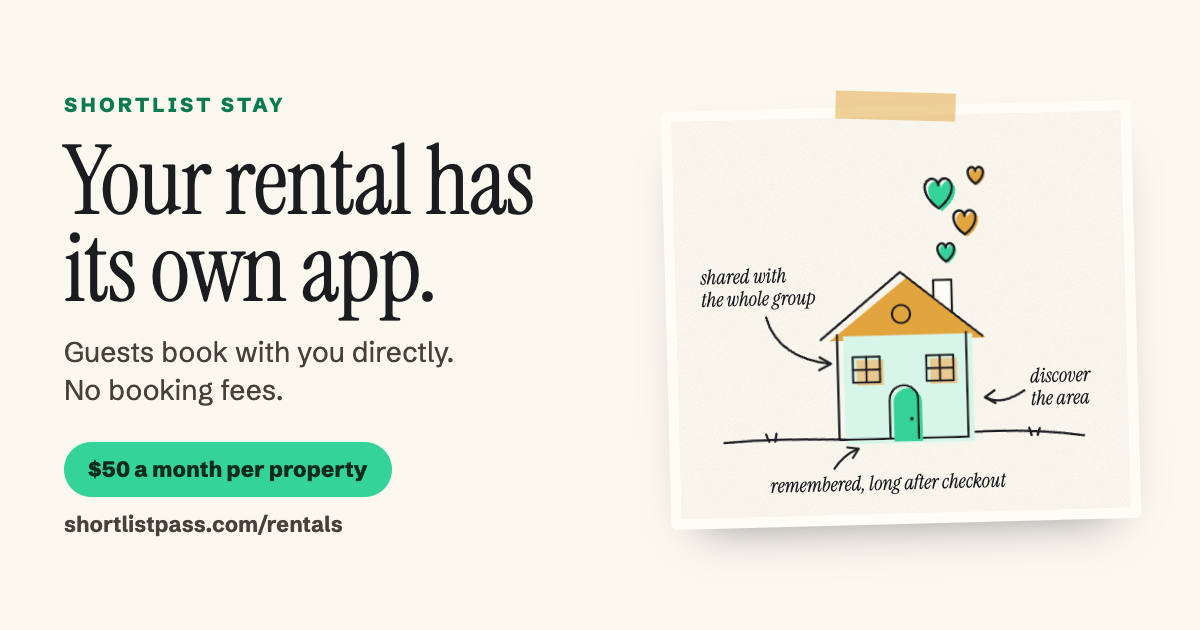
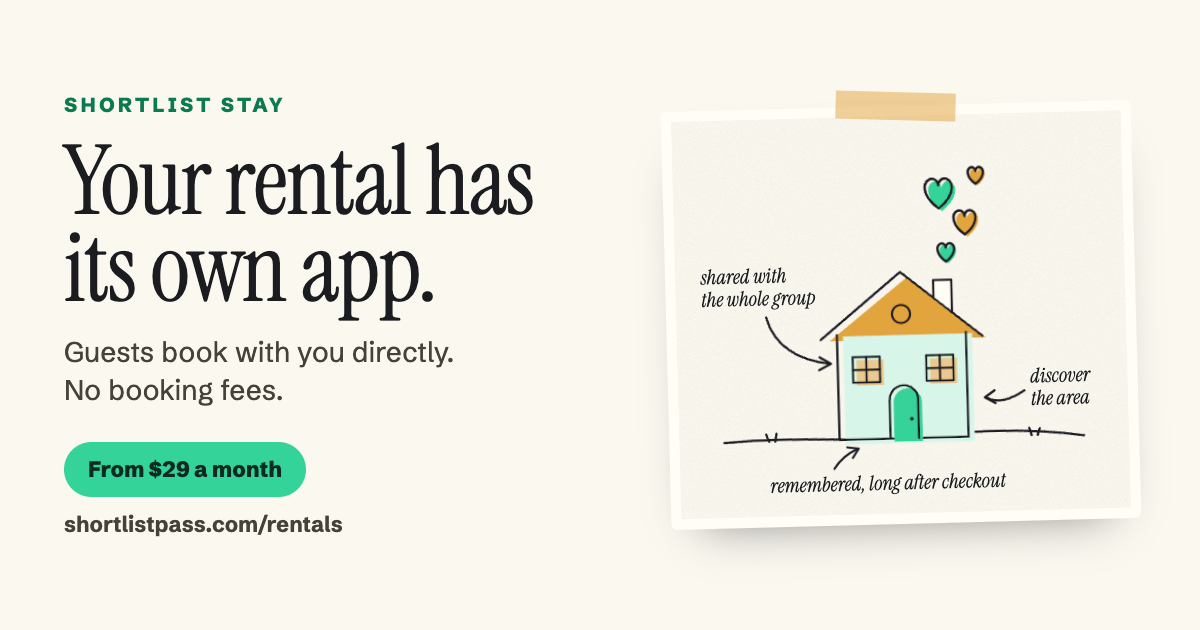
/rentals: animated hero phone (4 screens), 'How you keep them' section, new pricing ($29 / $15 / $9), new hero copy, metadata and share card

Changed region(s): [[0.0617, 0.6937, 0.3392, 0.8143]]

diff --git a/src/components/rentals/RentalsV3.tsx b/src/components/rentals/RentalsV3.tsx
@@ -2,6 +2,8 @@ import Image from "next/image";
 import { SIGNUP_HREF, DEMO_HREF } from "./tokens";
 import { FAQ } from "./faq";
 
+const SERIF_V = "var(--font-instrument), Georgia, serif";
+
 /** The v3 design for shortlistpass.com/rentals. The markup is the design file's, word for word, with its inline SVG drawings and the two filters (rough, grain) defined once at the top. The CSS below is the design's two animations plus the phone-width rules from the phone design file. */
 const CSS = `.rs,.rs *{-webkit-font-smoothing:auto}
 .rs,.rs *,.rs *::before,.rs *::after{box-sizing:content-box}
@@ -14,6 +16,11 @@ const CSS = `.rs,.rs *{-webkit-font-smoothing:auto}
 @keyframes cyc{0%{opacity:0;transform:translateY(10px)}4%,22%{opacity:1;transform:none}26%,100%{opacity:0;transform:none}}
 .rs .ht{transform-box:fill-box;transform-origin:center;animation:rise 4.4s ease-in-out infinite}
 @keyframes rise{0%{opacity:0;transform:translateY(16px)}25%,75%{opacity:1}100%{opacity:0;transform:translateY(-12px)}}
+.rs .hsw{position:absolute;inset:0}
+.rs .hs{position:absolute;inset:0;display:flex;flex-direction:column;opacity:0;animation:hcyc 14s infinite}
+.rs .hs2{animation-delay:3.5s}.rs .hs3{animation-delay:7s}.rs .hs4{animation-delay:10.5s}
+@keyframes hcyc{0%{opacity:0;transform:translateY(8px)}4%,22%{opacity:1;transform:none}26%,100%{opacity:0;transform:none}}
+@media (prefers-reduced-motion: reduce){.rs .hs{animation:none}.rs .hs1{opacity:1}}
 @media (prefers-reduced-motion: reduce){.rs .ht{animation:none}.rs .kn,.rs .sl{animation:none}.rs .sl.s1x{opacity:1}.rs .k1{background:#d7f5e8;color:#1a1c20}}
 @media (max-width:700px){
 .rs h1,.rs h2,.rs h3,.rs p,.rs .ey{text-wrap:wrap!important}
@@ -33,7 +40,7 @@ const CSS = `.rs,.rs *{-webkit-font-smoothing:auto}
 .rs .hc{gap:16px!important}
 .rs h1{font-size:52px!important;line-height:.95!important}
 .rs .s1 p{font-size:17px!important}
-.rs .s1 .hc>p:nth-of-type(2){font-size:26px!important}
+.rs .s1 .hc>p:nth-of-type(1){font-size:26px!important}
 .rs .hb{flex-direction:column!important;align-items:stretch!important;gap:10px!important}
 .rs .hb a{min-height:52px;justify-content:center;padding:0!important;font-size:16px!important}
 .rs .hn{text-align:center}
@@ -41,14 +48,15 @@ const CSS = `.rs,.rs *{-webkit-font-smoothing:auto}
 .rs .hph{left:0!important;right:0!important;top:0!important;bottom:auto!important;height:300px;border-radius:24px!important}
 .rs .hp{right:16px!important;bottom:0!important;width:190px!important;height:360px!important;border-radius:32px!important;padding:8px!important}
 .rs .hps{border-radius:25px!important}
-.rs .hpi{height:80px!important}
-.rs .hpt{padding:10px 10px 0!important;gap:3px!important}
-.rs .hpt span:first-child{font-size:8px!important}.rs .hpt span:last-child{font-size:19px!important}
-.rs .hpq,.rs .hpw{display:none!important}
-.rs .hpd{margin:10px 10px 0!important;padding:10px!important;border-radius:14px!important;gap:4px!important}
-.rs .hpd span:nth-child(1),.rs .hpd span:nth-child(2){font-size:8px!important}.rs .hpd span:nth-child(3){font-size:22px!important}
-.rs .hpg{margin:10px 10px 0!important;gap:6px!important}
-.rs .hpgt{height:44px!important;border-radius:10px!important}
+.rs .hsw{right:auto;bottom:auto;width:250px;height:494px;transform:scale(.696);transform-origin:0 0}
+.rs .hk{padding:8px 16px 40px!important;gap:20px!important}
+.rs .hk h2{font-size:42px!important;line-height:.98!important}
+.rs .hkr{flex-direction:column!important;gap:28px!important}
+.rs .hkc{flex:none!important}
+.rs .hkn{font-size:72px!important}
+.rs .hkc p{font-size:16px!important}
+.rs .hkc h3{font-size:22px!important;line-height:1.15!important}
+.rs .hk>p{font-size:15px!important}
 .rs .s2{padding:0 16px 24px!important;gap:10px!important}
 .rs .s2 h2{font-size:42px!important;line-height:.98!important}
 .rs .s3,.rs .s4,.rs .s5{padding:24px 16px 40px!important;gap:20px!important}
@@ -162,42 +170,127 @@ export default function RentalsV3() {
     <div className="hc" style={{ "flex": "1 1 480px", "minWidth": "0", "display": "flex", "flexDirection": "column", "gap": "20px" }}>
       <div className="ey" style={{ "fontSize": "13px", "fontWeight": "700", "letterSpacing": "0.14em", "textTransform": "uppercase", "color": "#0b7a50" }}>For vacation rental hosts</div>
       <h1 style={{ "margin": "0", "fontFamily": "var(--font-instrument), Georgia, serif", "fontWeight": "400", "fontSize": "86px", "lineHeight": "0.92", "letterSpacing": "-0.015em", "textWrap": "balance" }}>Your rental has its own app.</h1>
-      <p style={{ "margin": "0", "maxWidth": "540px", "fontSize": "19px", "lineHeight": "1.55", "color": "#45423c", "textWrap": "pretty" }}>Shorty answers your guests, shows them the best of the area, and keeps in touch long after checkout. When they come back, they book with you directly. We never take a booking fee.</p>
-      <p style={{ "margin": "0", "fontFamily": "var(--font-instrument), Georgia, serif", "fontSize": "30px", "lineHeight": "1.1" }}>Your rental. Your guests. You keep them.</p>
+      <p style={{ "margin": "0", "fontFamily": "var(--font-instrument), Georgia, serif", "fontSize": "30px", "lineHeight": "1.1" }}>Airbnb found your guests. Your app keeps them.</p>
+      <p style={{ "margin": "0", "maxWidth": "540px", "fontSize": "19px", "lineHeight": "1.55", "color": "#45423c", "textWrap": "pretty" }}>Shorty answers your guests, shares your local picks and stays in touch after checkout, so next time they book you direct. No booking fee.</p>
       <div className="hb" style={{ "display": "flex", "gap": "12px", "flexWrap": "wrap", "alignItems": "center" }}>
         <a href={SIGNUP_HREF} style={{ "minHeight": "52px", "padding": "0 28px", "borderRadius": "999px", "background": "#1a1c20", "color": "#f6f1e4", "textDecoration": "none", "display": "inline-flex", "alignItems": "center", "fontSize": "16px", "fontWeight": "700" }}>Get started</a>
         <a href={DEMO_HREF} style={{ "minHeight": "52px", "padding": "0 28px", "borderRadius": "999px", "background": "#34d399", "color": "#0d2b20", "textDecoration": "none", "display": "inline-flex", "alignItems": "center", "fontSize": "16px", "fontWeight": "700" }}>Try the demo house</a>
       </div>
-      <div className="hn" style={{ "fontSize": "14px", "color": "#6f6b60" }}>$50 a month per property. No download for guests.</div>
+      <div className="hn" style={{ "fontSize": "14px", "color": "#6f6b60" }}>From $29 a month. No download for guests. Cancel anytime.</div>
     </div>
     <div className="hv" style={{ "flex": "1 1 520px", "minWidth": "0", "position": "relative", "minHeight": "560px" }}>
       <div className="hph" style={{ "overflow": "hidden", "position": "absolute", "inset": "0 80px 0 0", "borderRadius": "28px", "background": "#d9cfb8", "display": "flex", "alignItems": "flex-end", "padding": "20px", "boxSizing": "border-box" }}>
         <Image src="/rentals/rentals-hero-porch.jpg" alt="Beach house porch at golden hour" fill sizes="(max-width: 700px) 100vw, 600px" priority style={{ objectFit: "cover" }} />
       </div>
       <div className="hp" style={{ "position": "absolute", "right": "0", "bottom": "-24px", "width": "270px", "height": "540px", "borderRadius": "40px", "background": "#14161a", "padding": "10px", "boxSizing": "border-box", "boxShadow": "0 24px 48px -28px rgba(26,28,32,0.55)" }}>
-        <div className="hps" style={{ "width": "100%", "height": "100%", "borderRadius": "32px", "background": "#fbf8f0", "overflow": "hidden", "display": "flex", "flexDirection": "column" }}>
-          <div className="hpi" style={{ "overflow": "hidden", "position": "relative", "height": "120px", "background": "#e9c98f" }}>
-        <Image src="/rentals/rentals-phone-house.jpg" alt="Raised beach house at sunrise" fill sizes="270px" style={{ objectFit: "cover" }} /></div>
-          <div className="hpt" style={{ "padding": "14px 14px 0", "display": "flex", "flexDirection": "column", "gap": "4px" }}>
-            <span style={{ "fontSize": "9px", "fontWeight": "700", "letterSpacing": "0.14em", "color": "#0b7a50" }}>WELCOME IN</span>
-            <span style={{ "fontFamily": "var(--font-instrument), Georgia, serif", "fontSize": "24px", "lineHeight": "1" }}>The Beach House</span>
+        <div className="hps" style={{ width: "100%", height: "100%", borderRadius: "32px", background: "#fbf8f0", overflow: "hidden", position: "relative" }}>
+          <div className="hsw">
+          <div className="hs hs1">
+            <div style={{ position: "relative", height: "120px", background: "#e9c98f" }}><Image src="/rentals/rentals-phone-house.jpg" alt="Raised beach house at sunrise" fill sizes="250px" style={{ objectFit: "cover" }} /></div>
+            <div style={{ padding: "14px 14px 0", display: "flex", flexDirection: "column", gap: "4px" }}>
+              <span style={{ fontSize: "9px", fontWeight: 700, letterSpacing: "0.14em", color: "#0b7a50" }}>WELCOME IN</span>
+              <span style={{ fontFamily: SERIF_V, fontSize: "24px", lineHeight: 1 }}>The Beach House</span>
+            </div>
+            <div style={{ margin: "12px 14px 0", padding: "8px 12px", borderRadius: 999, border: "1px solid #1a1c20", fontSize: "11px", color: "#6f6b60" }}>Ask anything about your stay</div>
+            <div style={{ margin: "12px 14px 0", padding: "12px", borderRadius: "16px", background: "#14161a", color: "#f6f1e4", display: "flex", flexDirection: "column", gap: "6px" }}>
+              <span style={{ fontSize: "9px", fontWeight: 700, letterSpacing: "0.14em", color: "#34d399" }}>YOUR STAY</span>
+              <span style={{ fontSize: "9px", color: "#c9c3b3" }}>FRONT DOOR</span>
+              <span style={{ fontFamily: SERIF_V, fontSize: "26px", letterSpacing: "0.08em" }}>4821</span>
+              <span style={{ fontSize: "10px", color: "#c9c3b3" }}>Wi-Fi: BeachHouse_Guest</span>
+            </div>
           </div>
-          <div className="hpq" style={{ "margin": "12px 14px 0", "padding": "8px 12px", "borderRadius": "999px", "border": "1px solid #1a1c20", "fontSize": "11px", "color": "#6f6b60" }}>Ask anything about your stay</div>
-          <div className="hpd" style={{ "margin": "12px 14px 0", "padding": "12px", "borderRadius": "16px", "background": "#14161a", "color": "#f6f1e4", "display": "flex", "flexDirection": "column", "gap": "6px" }}>
-            <span style={{ "fontSize": "9px", "fontWeight": "700", "letterSpacing": "0.14em", "color": "#34d399" }}>YOUR STAY</span>
-            <span style={{ "fontSize": "9px", "color": "#c9c3b3" }}>FRONT DOOR</span>
-            <span style={{ "fontFamily": "var(--font-instrument), Georgia, serif", "fontSize": "26px", "letterSpacing": "0.08em" }}>4821</span>
-            <span className="hpw" style={{ "fontSize": "10px", "color": "#c9c3b3" }}>Wi-Fi: BeachHouse_Guest</span>
+          <div className="hs hs2" style={{ padding: "18px 14px", boxSizing: "border-box", gap: "10px" }}>
+            <div style={{ display: "flex", flexDirection: "column", gap: "3px" }}>
+              <span style={{ fontSize: "9px", fontWeight: 700, letterSpacing: "0.14em", color: "#0b7a50" }}>AROUND HERE</span>
+              <span style={{ fontFamily: SERIF_V, fontSize: "26px", lineHeight: 1 }}>Top restaurants</span>
+              <span style={{ fontSize: "10px", color: "#6f6b60" }}>Jenna&apos;s picks</span>
+            </div>
+            <div style={{ display: "flex", gap: "5px" }}><span style={{ padding: "4px 8px", borderRadius: 999, background: "#1a1c20", color: "#f6f1e4", fontSize: "9px", fontWeight: 700 }}>All</span><span style={{ padding: "4px 8px", borderRadius: 999, border: "1px solid #e6dfcc", fontSize: "9px", fontWeight: 700 }}>Seafood</span><span style={{ padding: "4px 8px", borderRadius: 999, border: "1px solid #e6dfcc", fontSize: "9px", fontWeight: 700 }}>Breakfast</span></div>
+            <div style={{ borderRadius: "14px", background: "#ffffff", border: "1px solid #e6dfcc", overflow: "hidden" }}>
+              <div style={{ position: "relative", height: "64px", background: "#e9c98f" }}><Image src="/rentals/rentals-pick-grill.jpg" alt="Shrimp basket on a table" fill sizes="250px" style={{ objectFit: "cover" }} /></div>
+              <div style={{ padding: "8px 10px 10px", display: "flex", flexDirection: "column", gap: "2px" }}>
+                <span style={{ fontSize: "12px", fontWeight: 700 }}>Dockside Grill</span>
+                <span style={{ fontSize: "10px", lineHeight: 1.35, color: "#45423c" }}>Shrimp basket on the deck at sunset.</span>
+              </div>
+            </div>
+            <div style={{ borderRadius: "14px", background: "#ffffff", border: "1px solid #e6dfcc", overflow: "hidden" }}>
+              <div style={{ position: "relative", height: "64px", background: "#f0d9c4" }}></div>
+              <div style={{ padding: "8px 10px 10px", display: "flex", flexDirection: "column", gap: "2px" }}>
+                <span style={{ fontSize: "12px", fontWeight: 700 }}>Low Tide Tacos</span>
+                <span style={{ fontSize: "10px", lineHeight: 1.35, color: "#45423c" }}>Our favorite. Check where the truck is tonight.</span>
+              </div>
+            </div>
           </div>
-          <div className="hpg" style={{ "margin": "12px 14px 0", "display": "grid", "gridTemplateColumns": "repeat(2, minmax(0, 1fr))", "gap": "8px" }}>
-            <div className="hpgt" style={{ "overflow": "hidden", "position": "relative", "height": "56px", "borderRadius": "12px", "background": "#e9c98f" }}>
-        <Image src="/rentals/rentals-phone-tile-1.jpg" alt="Fried shrimp basket" fill sizes="120px" style={{ objectFit: "cover" }} /></div>
-            <div className="hpgt" style={{ "overflow": "hidden", "position": "relative", "height": "56px", "borderRadius": "12px", "background": "#c9d3d8" }}>
-        <Image src="/rentals/rentals-phone-tile-2.jpg" alt="Boardwalk over the dunes to the ocean" fill sizes="120px" style={{ objectFit: "cover" }} /></div>
+          <div className="hs hs3" style={{ padding: "18px 14px", boxSizing: "border-box", gap: "10px" }}>
+            <div style={{ display: "flex", flexDirection: "column", gap: "3px" }}>
+              <span style={{ fontSize: "9px", fontWeight: 700, letterSpacing: "0.14em", color: "#45423c" }}>RAIN AFTER 2PM</span>
+              <span style={{ fontFamily: SERIF_V, fontSize: "26px", lineHeight: 1 }}>Rainy day plans</span>
+              <span style={{ fontSize: "10px", color: "#6f6b60" }}>Jenna&apos;s picks</span>
+            </div>
+            <div style={{ borderRadius: "14px", background: "#ffffff", border: "1px solid #e6dfcc", overflow: "hidden" }}>
+              <div style={{ position: "relative", height: "64px", background: "#c9d3d8" }}><Image src="/rentals/rentals-pick-aquarium.jpg" alt="Aquarium" fill sizes="250px" style={{ objectFit: "cover" }} /></div>
+              <div style={{ padding: "8px 10px 10px", display: "flex", flexDirection: "column", gap: "2px" }}>
+                <span style={{ fontSize: "12px", fontWeight: 700 }}>The aquarium</span>
+                <span style={{ fontSize: "10px", lineHeight: 1.35, color: "#45423c" }}>Our go-to when it rains. Go early.</span>
+              </div>
+            </div>
+            <div style={{ borderRadius: "14px", background: "#ffffff", border: "1px solid #e6dfcc", overflow: "hidden" }}>
+              <div style={{ position: "relative", height: "64px", background: "#d7f5e8" }}></div>
+              <div style={{ padding: "8px 10px 10px", display: "flex", flexDirection: "column", gap: "2px" }}>
+                <span style={{ fontSize: "12px", fontWeight: 700 }}>Bowling downtown</span>
+                <span style={{ fontSize: "10px", lineHeight: 1.35, color: "#45423c" }}>Cheap, close, and the kids love it.</span>
+              </div>
+            </div>
+          </div>
+          <div className="hs hs4">
+            <div style={{ padding: "16px 14px 10px", borderBottom: "1px solid #e6dfcc", display: "flex", flexDirection: "column", gap: "2px" }}>
+              <span style={{ fontSize: "9px", fontWeight: 700, letterSpacing: "0.14em", color: "#0b7a50" }}>ASK SHORTY</span>
+              <span style={{ fontFamily: SERIF_V, fontSize: "20px", lineHeight: 1 }}>The Beach House</span>
+            </div>
+            <div style={{ padding: "12px", display: "flex", flexDirection: "column", gap: "8px" }}>
+              <div style={{ alignSelf: "flex-end", maxWidth: "75%", padding: "8px 11px", borderRadius: "14px", background: "#1a1c20", color: "#f6f1e4", fontSize: "12px", lineHeight: 1.4 }}>best breakfast near us?</div>
+              <div style={{ alignSelf: "flex-start", maxWidth: "85%", padding: "8px 11px", borderRadius: "14px", background: "#ffffff", border: "1px solid #e6dfcc", fontSize: "12px", lineHeight: 1.4 }}>Jenna&apos;s go-to is Sunrise Pancake House, 5 minutes away. Get there before 9.</div>
+              <div style={{ borderRadius: "14px", background: "#ffffff", border: "1px solid #e6dfcc", overflow: "hidden" }}>
+              <div style={{ position: "relative", height: "64px", background: "#e9c98f" }}></div>
+              <div style={{ padding: "8px 10px 10px", display: "flex", flexDirection: "column", gap: "2px" }}>
+                <span style={{ fontSize: "12px", fontWeight: 700 }}>Sunrise Pancake House</span>
+                <span style={{ fontSize: "10px", lineHeight: 1.35, color: "#45423c" }}>Blueberry stack. Worth the wait.</span>
+              </div>
+            </div>
+            </div>
+          </div>
           </div>
         </div>
       </div>
     </div>
+  </section>
+
+  <section className="hk" id="keep" style={{ maxWidth: "1280px", margin: "0 auto", padding: "16px 48px 80px", display: "flex", flexDirection: "column", gap: "32px" }}>
+    <div style={{ display: "flex", flexDirection: "column", gap: "12px" }}>
+      <div className="ey" style={{ fontSize: "13px", fontWeight: 700, letterSpacing: "0.14em", textTransform: "uppercase", color: "#0b7a50" }}>How you keep them</div>
+      <h2 style={{ margin: 0, maxWidth: "900px", fontFamily: "var(--font-instrument), Georgia, serif", fontWeight: 400, fontSize: "64px", lineHeight: 0.95, letterSpacing: "-0.015em", textWrap: "balance" }}>Every stay turns into a guest you can reach.</h2>
+    </div>
+    <div className="hkr" style={{ display: "flex", flexWrap: "wrap", gap: "40px" }}>
+      <div className="hkc" style={{ flex: "1 1 260px", minWidth: 0, display: "flex", flexDirection: "column", gap: "8px" }}>
+        <span className="hkn" style={{ fontFamily: "var(--font-instrument), Georgia, serif", fontSize: "96px", lineHeight: 0.9, color: "#0b7a50" }}>1</span>
+        <svg aria-hidden="true" width="84" height="10" viewBox="0 0 84 10" fill="none" style={{ display: "block" }}><path d="M2 6 C14 1 22 9 34 5 S58 2 70 6 S78 5 82 4" stroke="#34d399" strokeWidth="3" strokeLinecap="round" filter="url(#rough)" /></svg>
+        <h3 style={{ margin: "8px 0 0", fontFamily: "var(--font-schibsted), 'Helvetica Neue', Helvetica, sans-serif", fontSize: "22px", lineHeight: 1.15, fontWeight: 700 }}>During the stay</h3>
+        <p style={{ margin: 0, fontSize: "17px", lineHeight: 1.55, color: "#45423c" }}>They use your app for codes, picks and questions.</p>
+      </div>
+      <div className="hkc" style={{ flex: "1 1 260px", minWidth: 0, display: "flex", flexDirection: "column", gap: "8px" }}>
+        <span className="hkn" style={{ fontFamily: "var(--font-instrument), Georgia, serif", fontSize: "96px", lineHeight: 0.9, color: "#0b7a50" }}>2</span>
+        <svg aria-hidden="true" width="84" height="10" viewBox="0 0 84 10" fill="none" style={{ display: "block" }}><path d="M2 6 C14 1 22 9 34 5 S58 2 70 6 S78 5 82 4" stroke="#34d399" strokeWidth="3" strokeLinecap="round" filter="url(#rough)" /></svg>
+        <h3 style={{ margin: "8px 0 0", fontFamily: "var(--font-schibsted), 'Helvetica Neue', Helvetica, sans-serif", fontSize: "22px", lineHeight: 1.15, fontWeight: 700 }}>After checkout</h3>
+        <p style={{ margin: 0, fontSize: "17px", lineHeight: 1.55, color: "#45423c" }}>They get your updates by push, email or text.</p>
+      </div>
+      <div className="hkc" style={{ flex: "1 1 260px", minWidth: 0, display: "flex", flexDirection: "column", gap: "8px" }}>
+        <span className="hkn" style={{ fontFamily: "var(--font-instrument), Georgia, serif", fontSize: "96px", lineHeight: 0.9, color: "#0b7a50" }}>3</span>
+        <svg aria-hidden="true" width="84" height="10" viewBox="0 0 84 10" fill="none" style={{ display: "block" }}><path d="M2 6 C14 1 22 9 34 5 S58 2 70 6 S78 5 82 4" stroke="#34d399" strokeWidth="3" strokeLinecap="round" filter="url(#rough)" /></svg>
+        <h3 style={{ margin: "8px 0 0", fontFamily: "var(--font-schibsted), 'Helvetica Neue', Helvetica, sans-serif", fontSize: "22px", lineHeight: 1.15, fontWeight: 700 }}>Next trip</h3>
+        <p style={{ margin: 0, fontSize: "17px", lineHeight: 1.55, color: "#45423c" }}>They book you direct, and you keep the whole payment.</p>
+      </div>
+    </div>
+    <p style={{ margin: 0, fontSize: "16px", lineHeight: 1.55, color: "#6f6b60" }}>Airbnb keeps about 15.5% of every booking. A direct booking keeps it with you.</p>
   </section>
 
   <section className="s2" id="shorty" style={{ "maxWidth": "1280px", "margin": "0 auto", "padding": "0 48px 48px", "display": "flex", "flexDirection": "column", "gap": "12px" }}>
@@ -444,15 +537,16 @@ export default function RentalsV3() {
   <section className="s11" id="price" style={{ "maxWidth": "1280px", "margin": "0 auto", "padding": "112px 48px 96px" }}>
     <div className="pc" style={{ "background": "#ffffff", "border": "1px solid #e6dfcc", "borderRadius": "24px", "boxShadow": "0 18px 36px -26px rgba(26,28,32,0.5)", "padding": "48px", "display": "flex", "flexWrap": "wrap", "gap": "48px", "alignItems": "center" }}>
       <div className="pl" style={{ "flex": "1 1 320px", "minWidth": "0", "display": "flex", "flexDirection": "column", "gap": "8px" }}>
-        <span style={{ "fontSize": "13px", "fontWeight": "700", "letterSpacing": "0.14em", "textTransform": "uppercase", "color": "#0b7a50" }}>One price, one house</span>
-        <span className="pp" style={{ "fontFamily": "var(--font-instrument), Georgia, serif", "fontSize": "86px", "lineHeight": "0.9" }}>$50<span className="pm" style={{ "fontSize": "28px", "color": "#6f6b60" }}> / month</span></span>
-        <span style={{ "fontSize": "16px", "color": "#45423c" }}>Per property. Pay and go. Cancel anytime.</span>
+        <span style={{ "fontSize": "13px", "fontWeight": "700", "letterSpacing": "0.14em", "textTransform": "uppercase", "color": "#0b7a50" }}>Simple pricing</span>
+        <span className="pp" style={{ "fontFamily": "var(--font-instrument), Georgia, serif", "fontSize": "86px", "lineHeight": "0.9" }}>$29<span className="pm" style={{ "fontSize": "28px", "color": "#6f6b60" }}> / month</span></span>
+        <span style={{ "fontSize": "16px", "color": "#45423c" }}>For your first house. $15 a month for each house 2 to 9, and $9 for each house after that. Pay and go. Cancel anytime.</span>
       </div>
       <ul className="pu" style={{ "flex": "1 1 360px", "minWidth": "0", "margin": "0", "padding": "0", "listStyle": "none", "display": "flex", "flexDirection": "column", "gap": "12px", "fontSize": "16.5px", "color": "#45423c" }}>
         <li>Your own house app, with Shorty trained by you</li>
         <li>Your local picks, perks and emergency info</li>
-        <li>Texts, emails and push notifications to your guests</li>
+        <li>Push, email, and check-in and checkout texts to your guests</li>
         <li>Found in ChatGPT, book direct, no fees</li>
+        <li style={{ fontSize: "14px", lineHeight: 1.45, color: "#6f6b60" }}>Want to text guests anytime and have Shorty run your socials? Add Communications for $30 a month.</li>
       </ul>
       <a className="pb" href={SIGNUP_HREF} style={{ "flex": "0 0 auto", "minHeight": "56px", "padding": "0 32px", "borderRadius": "999px", "background": "#1a1c20", "color": "#f6f1e4", "textDecoration": "none", "display": "inline-flex", "alignItems": "center", "fontSize": "17px", "fontWeight": "700" }}>Get started</a>
     </div>

diff --git a/src/components/rentals/faq.ts b/src/components/rentals/faq.ts
@@ -1,6 +1,6 @@
 /** The four questions on /rentals. The visible FAQ section (RentalsV3.tsx) and the JSON-LD (src/app/rentals/page.tsx) both read this list, so they can't drift apart. Keep /public/rentals.md in step by hand. */
 export const FAQ: [string, string][] = [
-  ["How much does Shortlist Stay cost?", "$50 a month per property. Pay and go, cancel anytime."],
+  ["How much does Shortlist Stay cost?", "$29 a month for your first house, $15 a month for each house 2 to 9, and $9 a month for each house after that. Pay and go, cancel anytime."],
   ["Do my guests have to download an app?", "No. Your house app opens from a link or a QR code, right in their browser."],
   ["Do you take a booking fee?", "No. When a guest books with you directly, they pay through your own Stripe or Square and the money goes to your bank."],
   ["How do guests get my app?", "Send the link by text or email, share it anywhere you already talk to guests, or leave a QR card in the house."],

diff --git a/src/app/rentals/page.tsx b/src/app/rentals/page.tsx
@@ -10,10 +10,11 @@ const JSON_LD = {
       "@type": "SoftwareApplication",
       name: "Shortlist Stay",
       url: "https://www.shortlistpass.com/rentals",
+      description: "Airbnb found your guests. Shortlist Stay helps you keep them. Your rental gets its own app, guests stay in touch after checkout, and next time they book you direct with no booking fee.",
       applicationCategory: "BusinessApplication",
       operatingSystem: "Web",
       publisher: { "@type": "Organization", name: "The Shortlist Pass Co." },
-      offers: { "@type": "Offer", price: "50", priceCurrency: "USD", description: "Per property, per month", url: SIGNUP_HREF },
+      offers: { "@type": "Offer", price: "29", priceCurrency: "USD", description: "Per month for the first house; $15 per month for houses 2 to 9; $9 per month for each house after that.", url: SIGNUP_HREF },
     },
     {
       "@type": "FAQPage",

diff --git a/src/app/rentals/layout.tsx b/src/app/rentals/layout.tsx
@@ -4,7 +4,7 @@ import { instrumentSerif, schibsted } from "@/lib/fonts-rentals";
 
 const PAGE_URL = "https://www.shortlistpass.com/rentals";
 const TITLE = "Shortlist Stay: your rental has its own app";
-const DESCRIPTION = "Give your vacation rental its own app. Shorty answers guests, shares your local picks, and keeps in touch after checkout, so they book with you directly. No booking fees. $50 a month per property.";
+const DESCRIPTION = "Airbnb found your guests. Shortlist Stay helps you keep them. Your rental gets its own app, guests stay in touch after checkout, and next time they book you direct with no booking fee.";
 const IMAGE = "https://www.shortlistpass.com/rentals/og-rentals.png";
 const IMAGE_ALT = "Shortlist Stay: your rental has its own app. Book direct, no booking fees.";
 

diff --git a/src/components/rentals/tokens.ts b/src/components/rentals/tokens.ts
@@ -10,6 +10,6 @@ export const SANS = "var(--font-schibsted), 'Helvetica Neue', Helvetica, sans-se
  * THE ONE PLACE TO CHANGE when the real rentals sign-up exists: every button on /rentals (header, hero, pricing) reads this.
  */
 export const SIGNUP_HREF = "https://app.shortlistpass.com/go/rental";
-export const PRICE_LINE = "$50/month per property. Pay and go.";
+export const PRICE_LINE = "From $29/month. Pay and go.";
 /** "Try the demo house": the live demo listing. */
 export const DEMO_HREF = "https://thebeachhouse-demo.shortlistpass.com";

diff --git a/public/rentals.md b/public/rentals.md
@@ -2,13 +2,25 @@
 
 Canonical page: https://www.shortlistpass.com/rentals
 
-Shortlist Stay is a house app for vacation rental hosts, from The Shortlist Pass Co. Shorty answers your guests, shows them the best of the area, and keeps in touch long after checkout. When they come back, they book with you directly. We never take a booking fee.
+Shortlist Stay is a house app for vacation rental hosts, from The Shortlist Pass Co.
 
-**Your rental. Your guests. You keep them.**
+**Airbnb found your guests. Your app keeps them.**
+
+Shorty answers your guests, shares your local picks and stays in touch after checkout, so next time they book you direct. No booking fee.
 
 - Get started: https://app.shortlistpass.com/go/rental
 - Try the demo house: https://thebeachhouse-demo.shortlistpass.com
-- $50 a month per property. No download for guests.
+- From $29 a month. No download for guests. Cancel anytime.
+
+## How you keep them
+
+**Every stay turns into a guest you can reach.**
+
+1. During the stay: They use your app for codes, picks and questions.
+2. After checkout: They get your updates by push, email or text.
+3. Next trip: They book you direct, and you keep the whole payment.
+
+Airbnb keeps about 15.5% of every booking. A direct booking keeps it with you.
 
 ## Meet Shorty, your house's front desk
 
@@ -73,21 +85,23 @@ A guest requests dates, you confirm, they pay through your own Stripe or Square.
 - Where the money goes: Your bank
 - Whose guests they are: Yours
 
-## Price: one price, one house
+## Price: simple pricing
 
-**$50 a month.** Per property. Pay and go. Cancel anytime.
+**$29 a month.** For your first house. $15 a month for each house 2 to 9, and $9 for each house after that. Pay and go. Cancel anytime.
 
 - Your own house app, with Shorty trained by you
 - Your local picks, perks and emergency info
-- Texts, emails and push notifications to your guests
+- Push, email, and check-in and checkout texts to your guests
 - Found in ChatGPT, book direct, no fees
+
+Want to text guests anytime and have Shorty run your socials? Add Communications for $30 a month.
 
 Get started: https://app.shortlistpass.com/go/rental
 
 ## Good questions: what hosts ask us
 
 **How much does Shortlist Stay cost?**
-$50 a month per property. Pay and go, cancel anytime.
+$29 a month for your first house, $15 a month for each house 2 to 9, and $9 a month for each house after that. Pay and go, cancel anytime.
 
 **Do my guests have to download an app?**
 No. Your house app opens from a link or a QR code, right in their browser.
